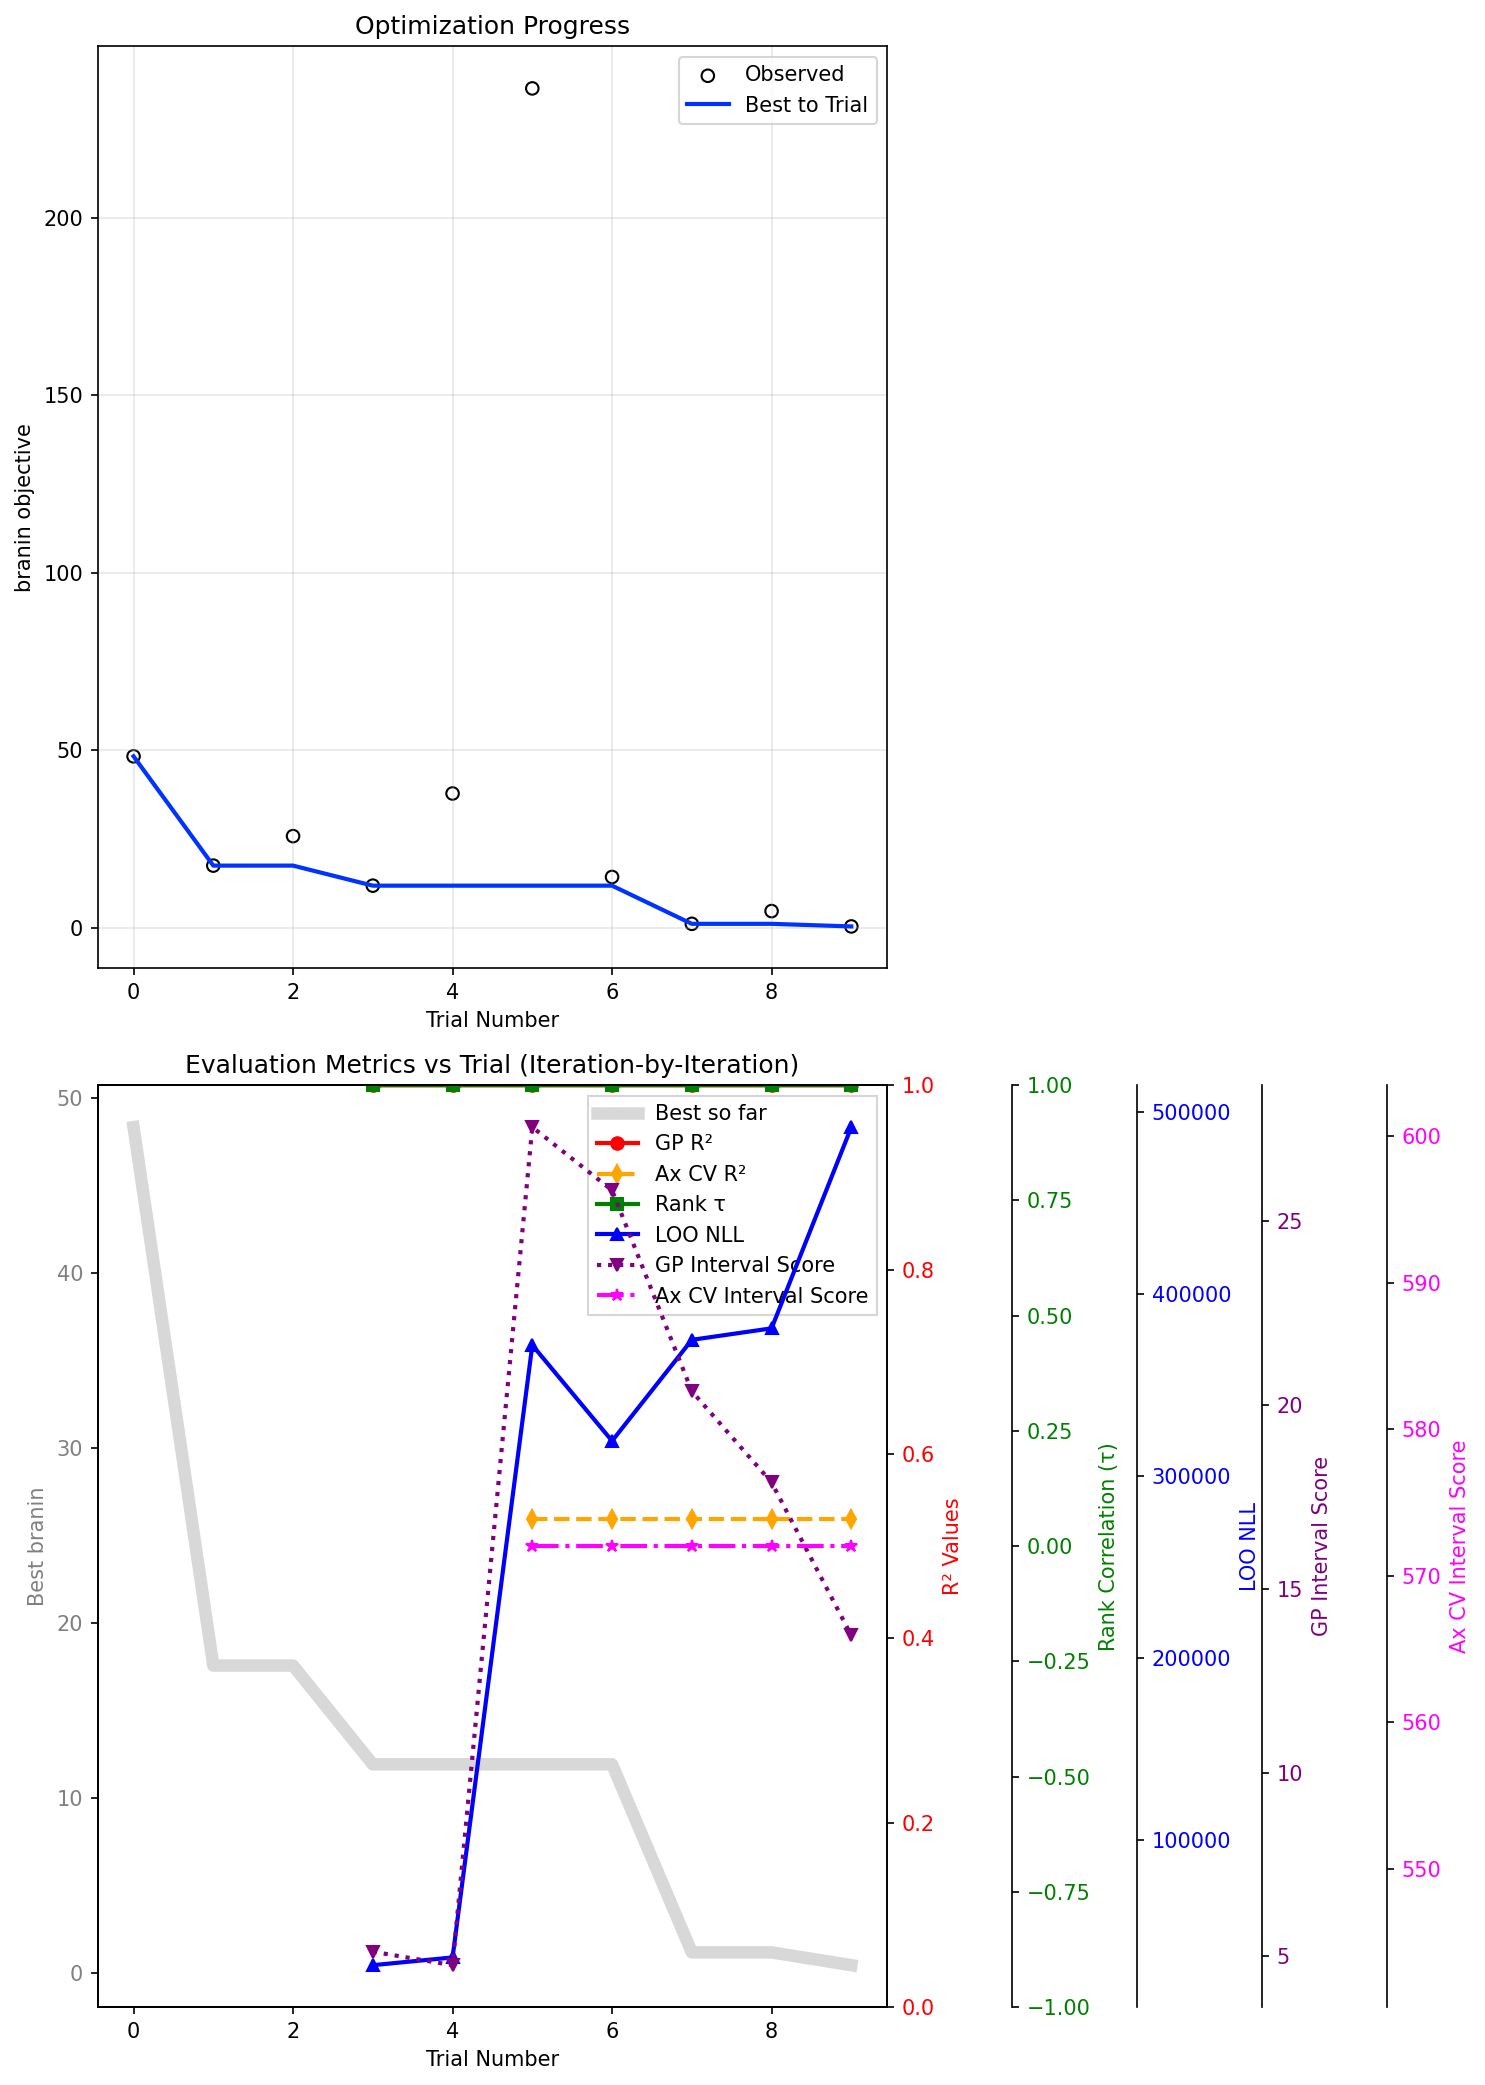
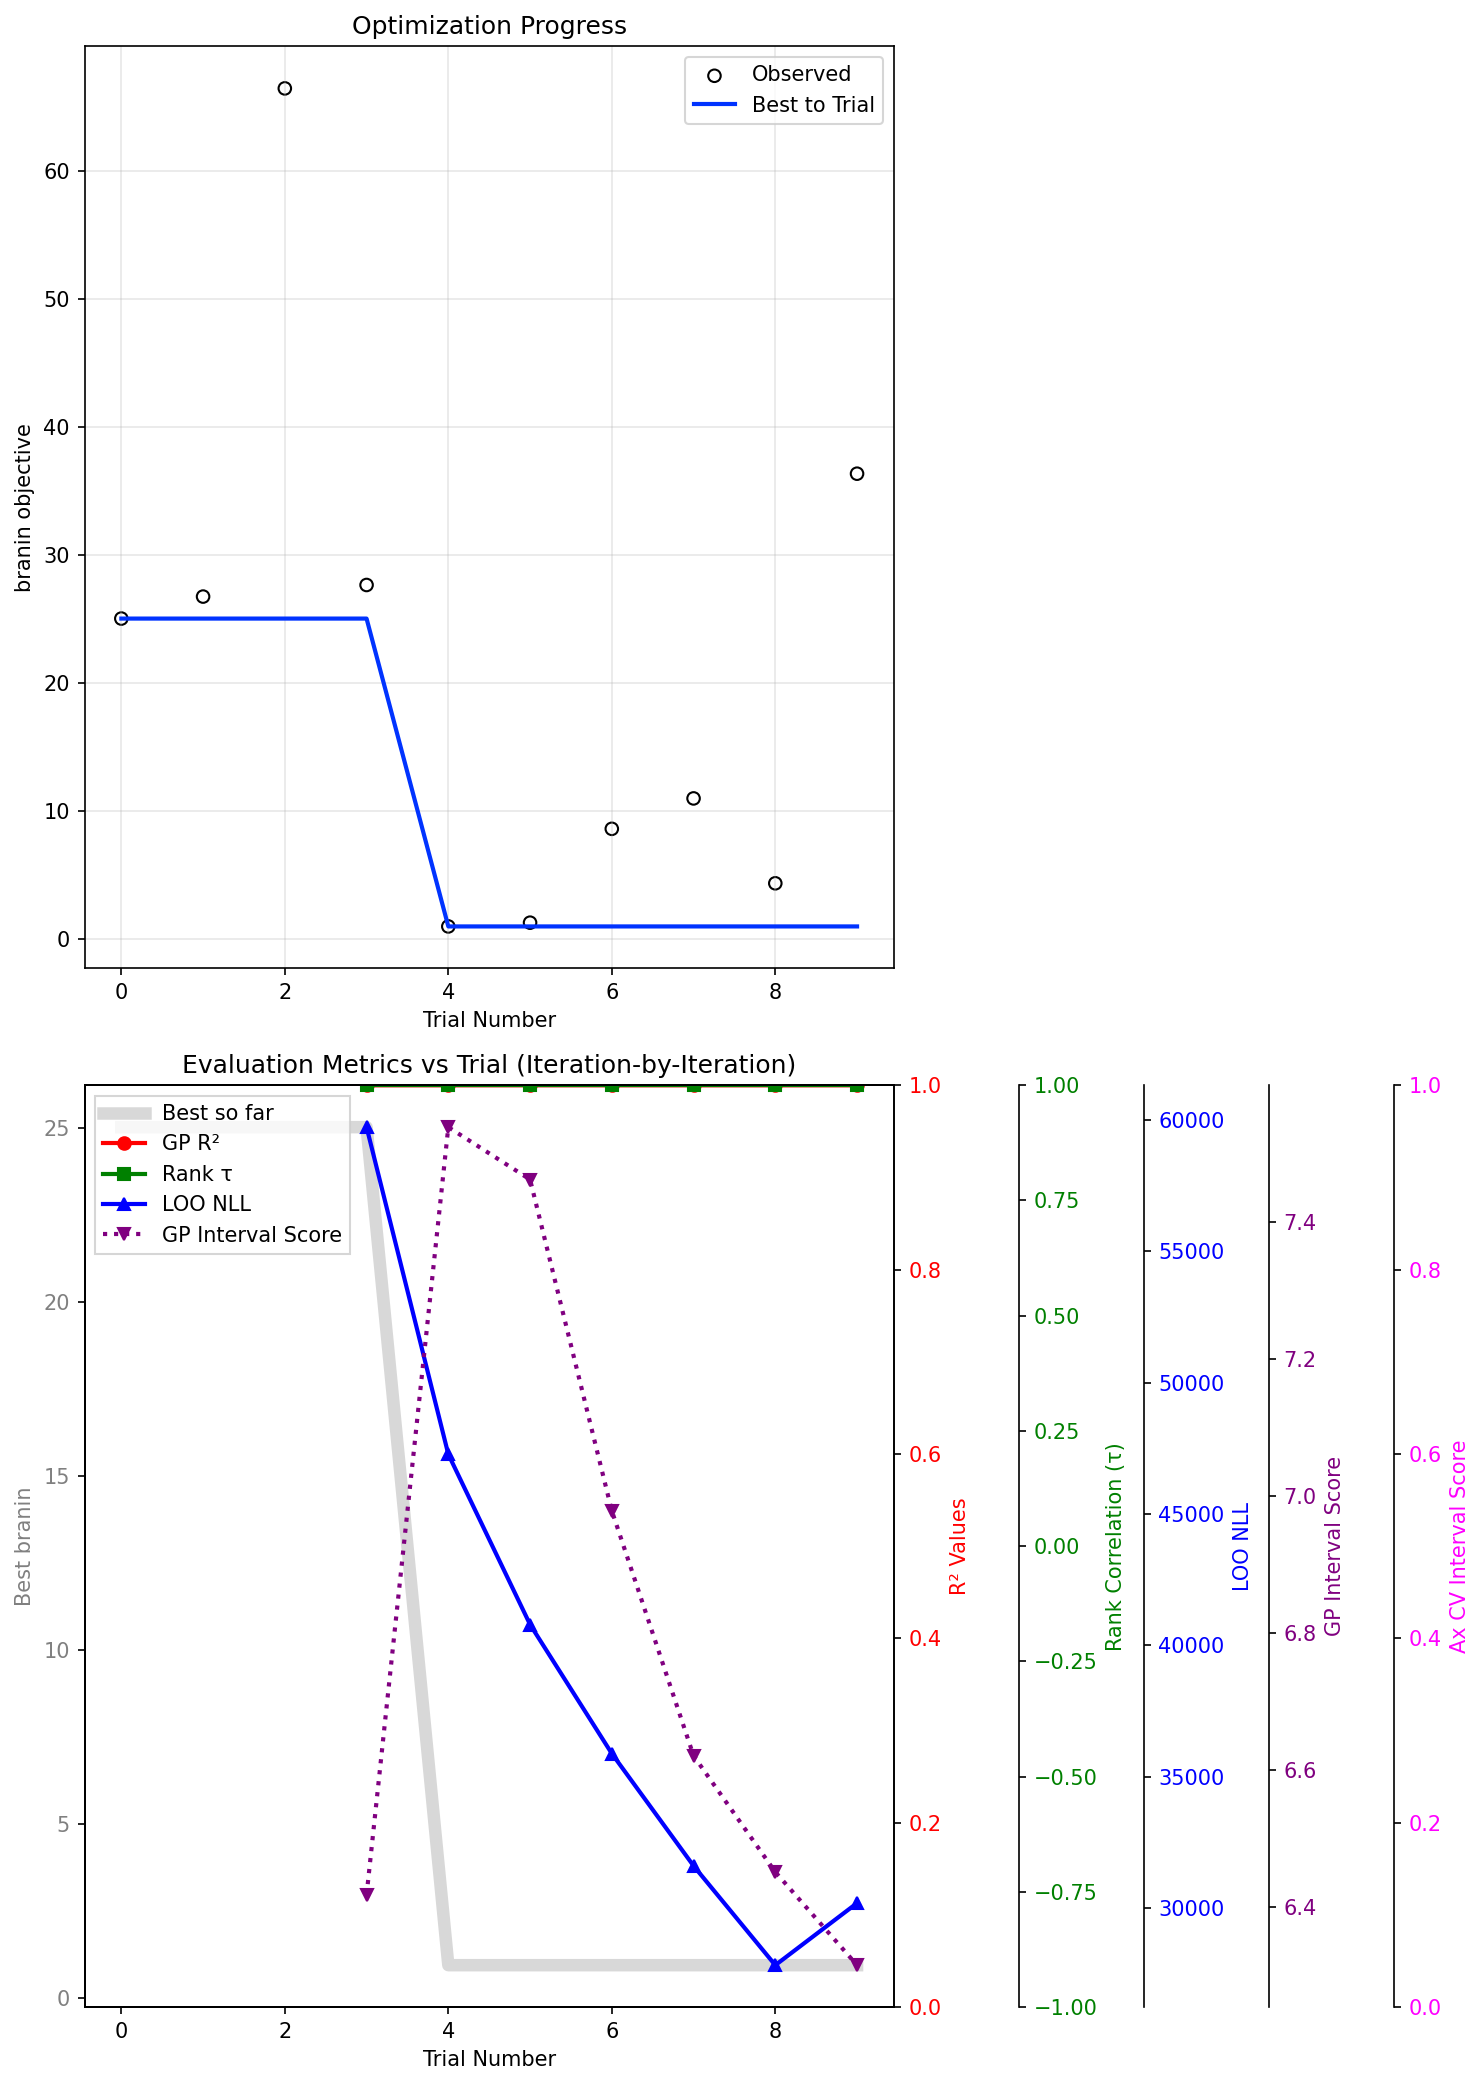
Address review feedback: simplify CV logic, update generation strategy, move legend left

diff --git a/scripts/bo_benchmarks/demonstrations/branin_campaign_demonstration.py b/scripts/bo_benchmarks/demonstrations/branin_campaign_demonstration.py
@@ -74,27 +74,17 @@ def calculate_ax_cross_validation_metrics(ax_client_cv, trial_index, x1, x2, res
         _, trial_index_cv = ax_client_cv.attach_trial(parameters=params)
         ax_client_cv.complete_trial(trial_index=trial_index_cv, raw_data=result)
         
-        # Force the CV client to generate a trial to trigger model creation if needed
-        # We don't use this trial, it's just to ensure the model bridge is created
-        if len(ax_client_cv.experiment.trials) >= 3 and ax_client_cv.generation_strategy.model is None:
-            try:
-                _, dummy_trial_idx = ax_client_cv.get_next_trial()
-                # Abandon the dummy trial - we just needed to trigger model creation
-                ax_client_cv.abandon_trial(trial_index=dummy_trial_idx)
-            except Exception:
-                pass  # Ignore errors in dummy trial generation
-        
-        # Check if CV client has a Bayesian model
-        # The client should switch to BOTORCH_MODULAR once it has enough data
-        if len(ax_client_cv.experiment.trials) < 3:
-            print("  CV client has insufficient trials for CV")
-            return None, None
-            
         # Get the model bridge from the CV generation strategy 
         model_bridge = ax_client_cv.generation_strategy.model
         if model_bridge is None:
-            print("  CV model bridge is None")
+            print("  Ax CV: Not available (still in Sobol phase)")
             return None, None
+        
+        # Skip if it's still a RandomModelBridge (Sobol)
+        if hasattr(model_bridge, 'model') and 'Sobol' in str(type(model_bridge.model)):
+            print("  Ax CV: Not available (using Sobol generator)")
+            return None, None
+        assert model_bridge is not None, "CV model bridge should be available"
         
         # Run cross validation using Ax's built-in function with the CV model bridge
         cv = cross_validate(model=model_bridge, folds=-1)  # Leave-one-out CV
@@ -213,14 +203,17 @@ ax_client.create_experiment(
     },
 )
 
-# Create separate AxClient for cross-validation that skips Sobol initialization
-# This client will mirror the main client's data but use BOTORCH_MODULAR immediately
+# Create separate AxClient for cross-validation with custom generation strategy
+# This client will mirror the main client's data using Sobol (3 trials) -> BOTORCH_MODULAR
 gs_cv = GenerationStrategy(
     steps=[
         GenerationStep(
+            model=Models.SOBOL,
+            num_trials=3,  # Fixed to 3 Sobol trials
+        ),
+        GenerationStep(
             model=Models.BOTORCH_MODULAR,
-            num_trials=-1,  # Use for all trials
-            min_trials_observed=0,  # No minimum - start immediately with BOTORCH_MODULAR
+            num_trials=-1,  # Use BOTORCH_MODULAR for remaining trials
         )
     ]
 )
@@ -394,7 +387,7 @@ if all_metrics:
     
     # Place legend inside plot with white background and transparency
     labels = [l.get_label() for l in lines]
-    legend = ax2.legend(lines, labels, loc='upper right', framealpha=0.8, fancybox=False, shadow=False)
+    legend = ax2.legend(lines, labels, loc='upper left', framealpha=0.8, fancybox=False, shadow=False)
     legend.get_frame().set_facecolor('white')
     
     print(f"\nLOO Negative Log-Likelihood values: {loo_values}")
